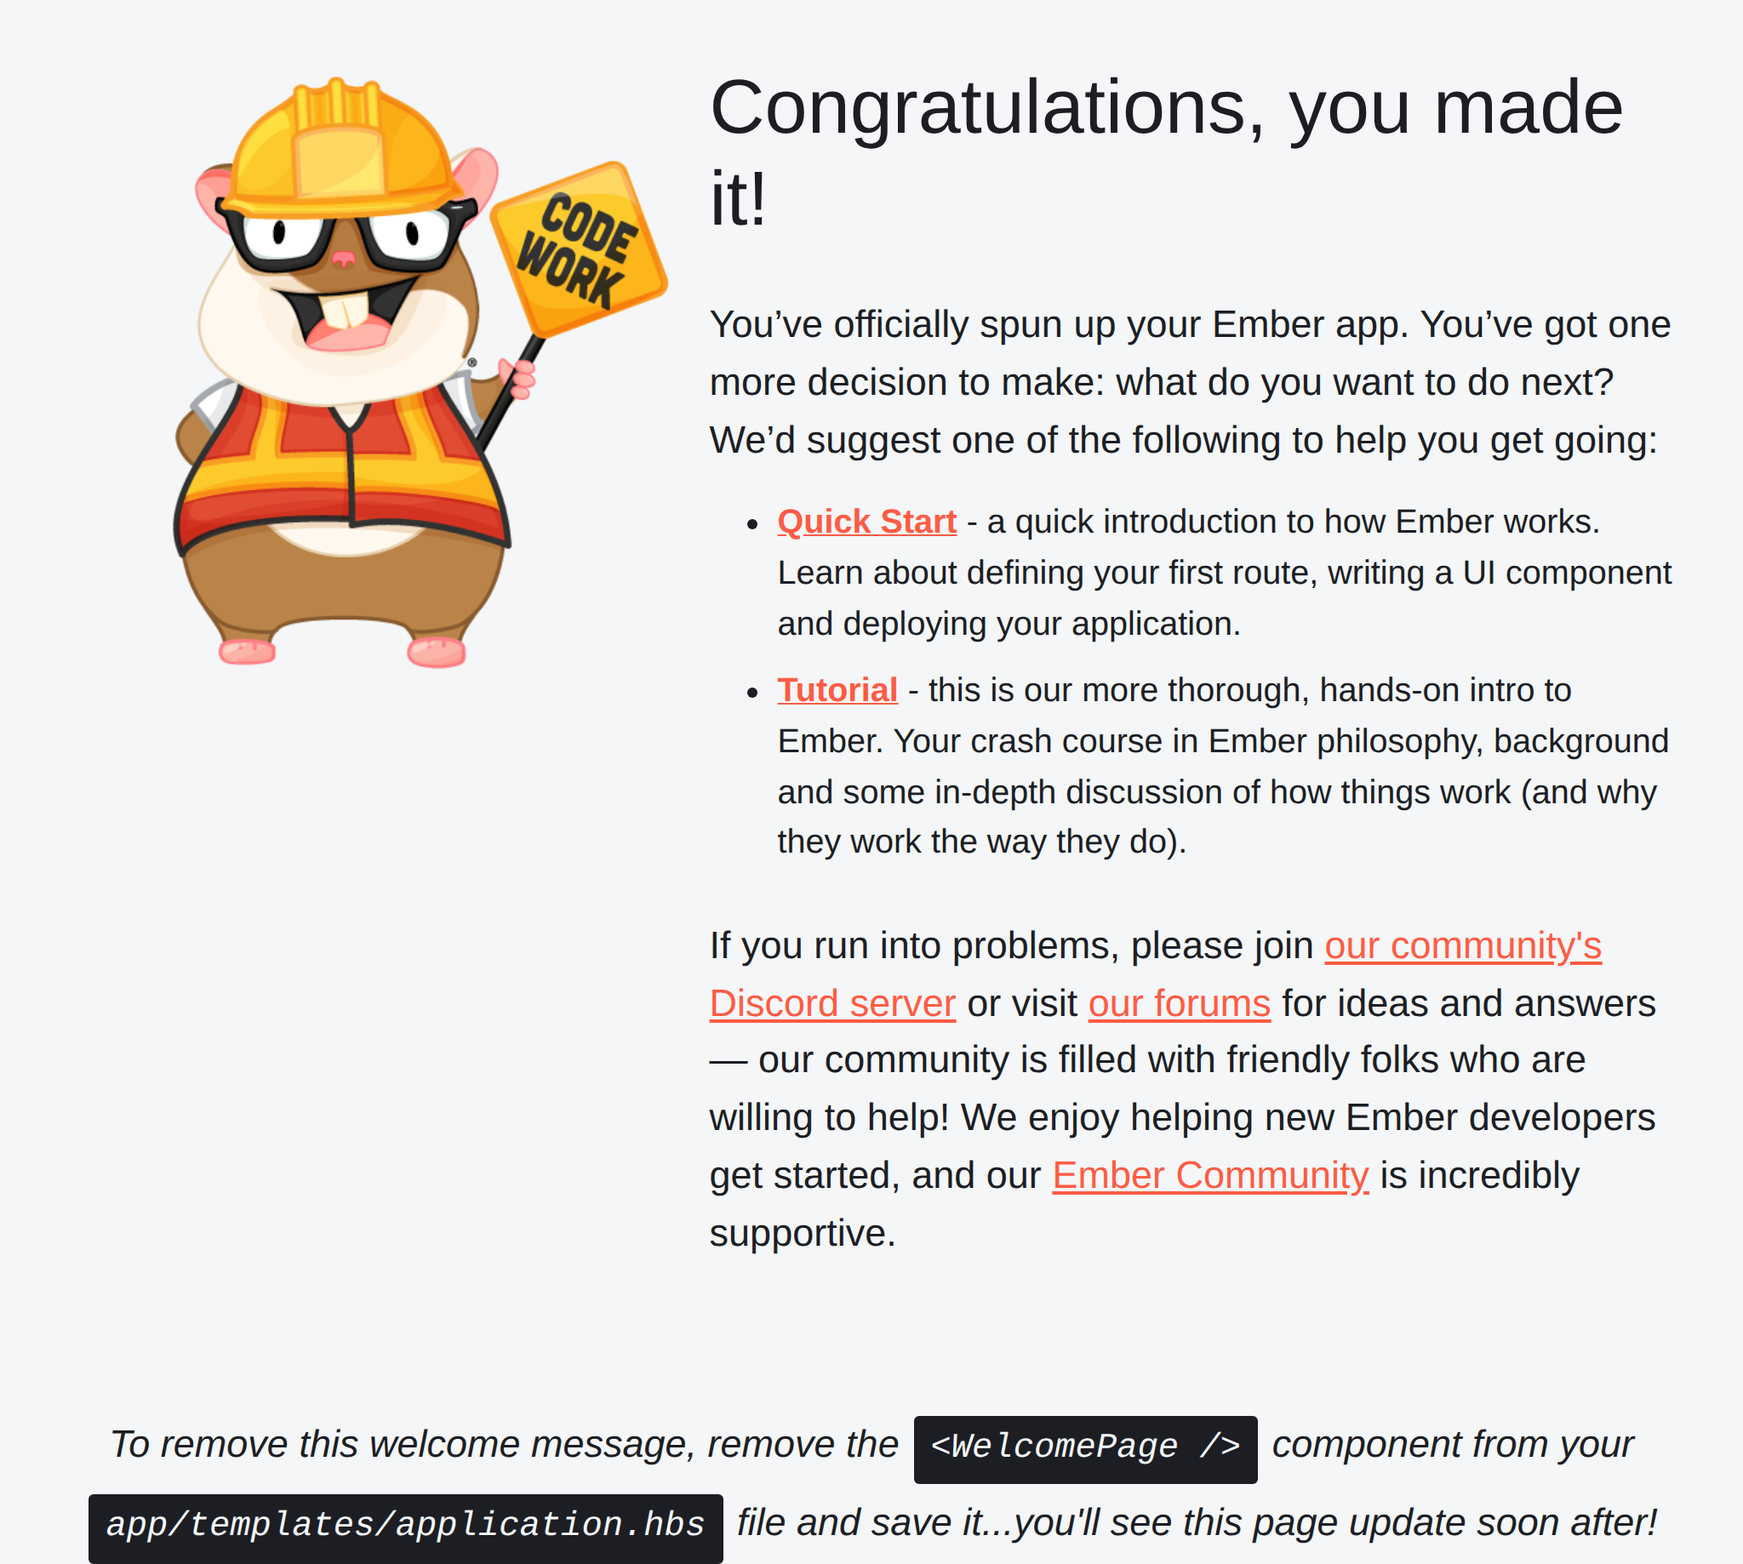
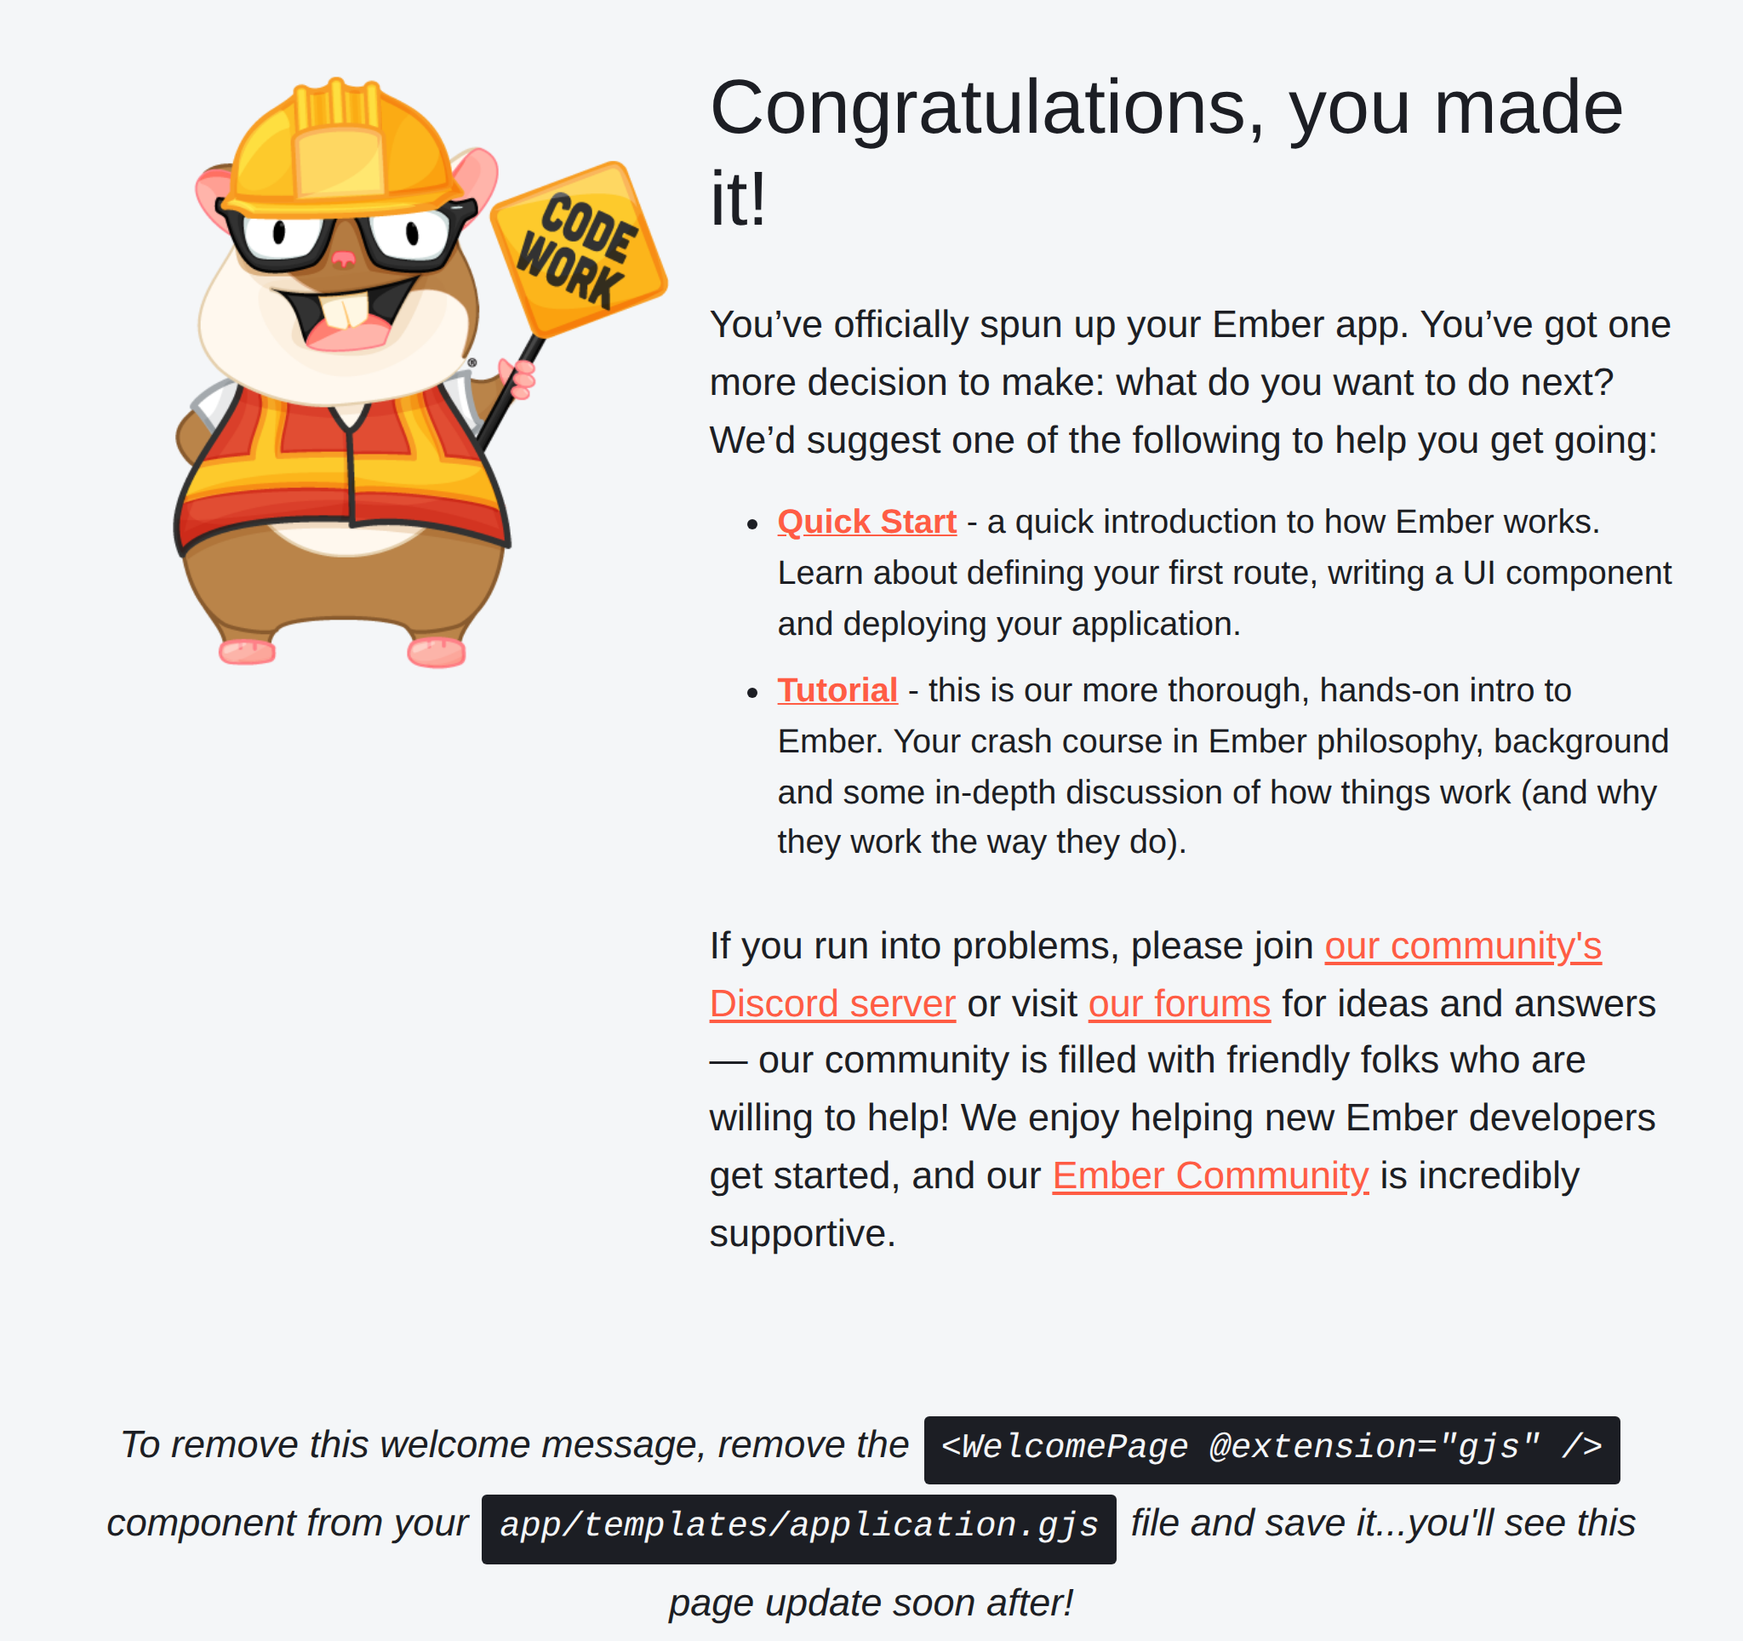
fix gjs extensions in welcome-page patch
---

Commit:  ember-learn/super-rentals-tutorial@36a12b732ee49e381ccfd6022cb507a460b0596b
Script:  https://github.com/ember-learn/super-rentals-tutorial/blob/36a12b732ee49e381ccfd6022cb507a460b0596b/.github/workflows/build.yml
Logs:    https://github.com/ember-learn/super-rentals-tutorial/commit/36a12b732ee49e381ccfd6022cb507a460b0596b/checks

diff --git a/guides/release/tutorial/part-2/ember-data.md b/guides/release/tutorial/part-2/ember-data.md
@@ -74,19 +74,19 @@ Chances are, as we keep working on this app, we will need to add more routes tha
 
 Fortunately, we're not going to do any of that. As it turns out, there's a much better solution here: we can use EmberData! As its name implies, [EmberData](../../../models/) is a library that helps manage data and _application state_ in Ember applications.
 
-There's a lot to learn about EmberData, but let's start by uncovering features that help with our immediate problem.
-
 <div class="cta">
   <div class="cta-note">
     <div class="cta-note-body">
       <div class="cta-note-heading">Zoey says...</div>
       <div class="cta-note-message">
-        <p>RequestManager is available starting with the EmberData 4.12 LTS release. EmberData works with multiple versions of Ember, please refer to the Compatibility section of the <a href="https://github.com/emberjs/data/blob/main/README.md#compatibility">EmberData README</a> while doing your application upgrade.</p>
+        <p>EmberData is in the process of being renamed to WarpDrive. It's not just changing its name though, WarpDrive is now able to be used in multiple different frameworks. You can read more about it in the <a href="https://warp-drive.io">WarpDrive Docs</a></p>
       </div>
     </div>
     <img src="/images/mascots/zoey.png" role="presentation" alt="">
   </div>
 </div>
+
+There's a lot to learn about EmberData, but let's start by uncovering features that help with our immediate problem.
 
 ## EmberData Models
 
@@ -95,7 +95,7 @@ EmberData is built around the idea of organizing your app's data into _[model ob
 Enough talking, why don't we give that a try!
 
 ```js { data-filename="app/models/rental.js" }
-import Model, { attr } from '@ember-data/model';
+import Model, { attr } from '@warp-drive/legacy/model';
 
 const COMMUNITY_CATEGORIES = ['Condo', 'Townhouse', 'Apartment'];
 
@@ -119,7 +119,7 @@ export default class RentalModel extends Model {
 }
 ```
 
-Here, we created a `RentalModel` class that extends EmberData's `Model` superclass. When fetching the listing data from the server, each individual rental property will be represented by an instance (also known as a _[record](../../../models/finding-records/)_) of our `RentalModel` class.
+Here, we created a `RentalModel` class that extends EmberData's `Model` superclass (which is imported from the `@warp-drive/legacy` package). When fetching the listing data from the server, each individual rental property will be represented by an instance (also known as a _[record](../../../models/finding-records/)_) of our `RentalModel` class.
 
 We used the `@attr` decorator to declare the attributes of a rental property. These attributes correspond directly to the `attributes` data we expect the server to provide in its responses:
 
@@ -226,10 +226,26 @@ module('Unit | Model | rental', function (hooks) {
 
 This model test is also known as a _[unit test](../../../testing/testing-models/)_. Unlike any of the other tests that we've written thus far, this test doesn't actually _render_ anything. It just instantiates the rental model object and tests the model object directly, manipulating its attributes and asserting their value.
 
-It is worth pointing out that EmberData provides a `store` _[service](../../../services/)_, also known as the EmberData store. In our test, we used the `this.owner.lookup('service:store')` API to get access to the EmberData store. The store provides a `createRecord` method to instantiate our model object for us. To make this `store` service available, we must add the following file:
+It is worth pointing out that EmberData provides a `store` _[service](../../../services/)_, also known as the EmberData store. In our test, we used the `this.owner.lookup('service:store')` API to get access to the EmberData store. The store provides a `createRecord` method to instantiate our model object for us. 
+
+This is the store that is generated for us as part of the default blueprint: 
 
 ```js { data-filename="app/services/store.js" }
-export { default } from 'ember-data/store';
+import { useLegacyStore } from '@warp-drive/legacy';
+import { JSONAPICache } from '@warp-drive/json-api';
+
+const Store = useLegacyStore({
+  linksMode: false,
+  cache: JSONAPICache,
+  handlers: [
+    // -- your handlers here
+  ],
+  schemas: [
+    // -- your schemas here
+  ],
+});
+
+export default Store;
 ```
 
 Running the tests in the browser confirms that everything is working as intended:
@@ -245,7 +261,7 @@ import Route from '@ember/routing/route';
 
 const COMMUNITY_CATEGORIES = ['Condo', 'Townhouse', 'Apartment'];
 import { service } from '@ember/service';
-import { query } from '@ember-data/json-api/request';
+import { query } from '@warp-drive/utilities/json-api';
 
 export default class IndexRoute extends Route {
   async model() {
@@ -277,7 +293,7 @@ import Route from '@ember/routing/route';
 
 const COMMUNITY_CATEGORIES = ['Condo', 'Townhouse', 'Apartment'];
 import { service } from '@ember/service';
-import { findRecord } from '@ember-data/json-api/request';
+import { findRecord } from '@warp-drive/utilities/json-api';
 
 export default class RentalRoute extends Route {
   async model(params) {
@@ -308,9 +324,9 @@ Wow... that removed a lot of code! This is all possible thanks to the power of c
 
 ## The EmberData Store
 
-As mentioned above, EmberData provides a `store` service, which we can inject into our route using the `@service store;` declaration, making the EmberData store available as `this.store`. It provides the `request` method for making fetch requests using `RequestManager`. As its name implies: the `RequestManager` is request centric. Instead of answering questions about specific records or types of records, we ask it about the status of a specific request. To initiate a request, we use the `request` method on the store, passing in a request object. The request object is created using builders from `@ember-data/json-api/request`. Specifically, the [`findRecord` builder](../../../models/finding-records/#toc_retrieving-a-single-record) takes a model type (`rental` in our case) and a model ID (for us, that would be `params.rental_id` from the URL) as arguments and builds fetch options for a single record. On the other hand, the [`query` builder](../../../models/finding-records/#toc_retrieving-multiple-records) takes the model type as an argument and builds fetch options to query for all records of that type.
+As mentioned above, EmberData provides a `store` service, which we can inject into our route using the `@service store;` declaration, making the EmberData store available as `this.store`. It provides the `request` method for making fetch requests using `RequestManager`. As its name implies: the `RequestManager` is request centric. Instead of answering questions about specific records or types of records, we ask it about the status of a specific request. To initiate a request, we use the `request` method on the store, passing in a request object. The request object is created using builders from `@warp-drive/utilities/json-api`. Specifically, the [`findRecord` builder](../../../models/finding-records/#toc_retrieving-a-single-record) takes a model type (`rental` in our case) and a model ID (for us, that would be `params.rental_id` from the URL) as arguments and builds fetch options for a single record. On the other hand, the [`query` builder](../../../models/finding-records/#toc_retrieving-multiple-records) takes the model type as an argument and builds fetch options to query for all records of that type.
 
-EmberData can do many things, and in default setup it provides caching. EmberData's store caches server responses, allowing instant access to previously fetched data. If the data is already cached, you don't need to wait for the server to respond again. If not, the store fetches it for you.
+EmberData can do many things, and in the default setup it provides caching. EmberData's store caches server responses, allowing instant access to previously fetched data. If the data is already cached, you don't need to wait for the server to respond again. If not, the store fetches it for you.
 
 That's a lot of theory, but is this going to work in our app? Let's run the tests and find out!
 
@@ -334,7 +350,8 @@ Let's start customizing the things that didn't work for us by default. Specifica
 
 The first thing we want to do is have our builder respect a configurable default host and/or namespace. Adding a namespace prefix happens to be pretty common across Ember apps, so EmberData provides a global config mechanism for host and namespace. Typically you will want to do this either in your store file or app file.
 
-```js { data-filename="app/app.js" data-diff="+21,+22,+23,+24,+25" }
+```js { data-filename="app/app.js" data-diff="+22,+23,+24,+25,+26" }
+import '@warp-drive/ember/install';
 import Application from '@ember/application';
 import compatModules from '@embroider/virtual/compat-modules';
 import Resolver from 'ember-resolver';
@@ -355,7 +372,7 @@ export default class App extends Application {
 }
 
 loadInitializers(App, config.modulePrefix, compatModules);
-import { setBuildURLConfig } from '@ember-data/request-utils';
+import { setBuildURLConfig } from '@warp-drive/utilities/json-api';
 
 setBuildURLConfig({
   namespace: 'api',
@@ -379,34 +396,26 @@ export const JsonSuffixHandler = {
 
 As you can see, the handler appends `.json` to the URL of each request. Pretty simple, right? Then it calls the `next` function with the modified copy of the request object (because it is immutable). This is how we can chain multiple handlers together to build up a request.
 
-The next step that we need to do, is to configure `RequestManager` to use this handler. Let's create the request-manager service.
+The next step that we need to do, is to configure our  `legacyStore` to use this handler. Let's update the store service to add this handler:
 
-```js { data-filename="app/services/request-manager.js" }
-import BaseRequestManager from '@ember-data/request';
-import Fetch from '@ember-data/request/fetch';
+```js { data-filename="app/services/store.js" data-diff="+3,+10" }
+import { useLegacyStore } from '@warp-drive/legacy';
+import { JSONAPICache } from '@warp-drive/json-api';
 import { JsonSuffixHandler } from 'super-rentals/utils/handlers';
 
-export default class RequestManager extends BaseRequestManager {
-  constructor(args) {
-    super(args);
+const Store = useLegacyStore({
+  linksMode: false,
+  cache: JSONAPICache,
+  handlers: [
+    // -- your handlers here
+    JsonSuffixHandler
+  ],
+  schemas: [
+    // -- your schemas here
+  ],
+});
 
-    this.use([JsonSuffixHandler, Fetch]);
-  }
-}
-```
-
-Notice that we are using the `JsonSuffixHandler` we created earlier. We also use the `Fetch` handler, which is a built-in handler that makes the actual fetch request. The `use` method is used to add handlers to the request manager. The order in which handlers are added is important, as they will be executed in the order they were added.
-
-Lastly, let's update our `store` service to use the new `RequestManager` we created.
-
-```js { data-filename="app/services/store.js" data-diff="-1,+2,+3,+4,+5,+6,+7" }
-export { default } from 'ember-data/store';
-import BaseStore from 'ember-data/store';
-import { service } from '@ember/service';
-
-export default class Store extends BaseStore {
-  @service requestManager;
-}
+export default Store;
 ```
 
 With our new EmberData configuration in place, all our tests should pass again.

diff --git a/guides/release/tutorial/part-1/orientation.md b/guides/release/tutorial/part-1/orientation.md
@@ -24,8 +24,8 @@ To verify that your installation was successful, run:
 
 ```shell
 $ ember --version
-ember-cli: 6.9.1
-node: 20.19.6
+ember-cli: 6.10.0
+node: 20.20.0
 os: linux x64
 ```
 
@@ -46,29 +46,28 @@ Creating a new Ember app in /home/runner/work/super-rentals-tutorial/super-renta
   create .prettierignore
   create .prettierrc.mjs
   create .stylelintignore
-  create .stylelintrc.cjs
+  create .stylelintrc.mjs
   create .template-lintrc.mjs
   create .watchmanconfig
   create README.md
-  create /home/runner/work/super-rentals-tutorial/super-rentals-tutorial/dist/code/super-rentals/babel.config.cjs
-  create /home/runner/work/super-rentals-tutorial/super-rentals-tutorial/dist/code/super-rentals/eslint.config.mjs
   create app/app.js
   create app/components/.gitkeep
   create app/config/environment.js
   create app/controllers/.gitkeep
   create app/deprecation-workflow.js
   create app/helpers/.gitkeep
-  create app/models/.gitkeep
   create app/router.js
   create app/routes/.gitkeep
-  create app/services/.gitkeep
+  create app/services/store.js
   create app/styles/app.css
-  create /home/runner/work/super-rentals-tutorial/super-rentals-tutorial/dist/code/super-rentals/app/templates/application.gjs
+  create app/templates/application.gjs
+  create babel.config.mjs
   create config/ember-cli-update.json
   create config/environment.js
   create config/optional-features.json
   create config/targets.js
   create ember-cli-build.js
+  create eslint.config.mjs
   create .gitignore
   create index.html
   create package.json
@@ -119,12 +118,10 @@ super-rentals
 │   │   └── .gitkeep
 │   ├── helpers
 │   │   └── .gitkeep
-│   ├── models
-│   │   └── .gitkeep
 │   ├── routes
 │   │   └── .gitkeep
 │   ├── services
-│   │   └── .gitkeep
+│   │   └── store.js
 │   ├── styles
 │   │   └── app.css
 │   ├── templates
@@ -137,6 +134,28 @@ super-rentals
 │   ├── environment.js
 │   ├── optional-features.json
 │   └── targets.js
+├── dist
+│   ├── @embroider
+│   │   └── virtual
+│   │       ├── app.css
+│   │       ├── test-support.css
+│   │       ├── test-support.js
+│   │       ├── vendor.css
+│   │       └── vendor.js
+│   ├── assets
+│   │   ├── app-BQizcYp5.js
+│   │   ├── app-BsLReVUA.css
+│   │   ├── main-BrJmI0E2.js
+│   │   ├── modules-4-12-1Tpr-lU6.js
+│   │   ├── tests-Bfhe-jay.js
+│   │   └── tests-CFFHI-JI.css
+│   ├── ember-welcome-page
+│   │   └── construction.png
+│   ├── tests
+│   │   └── index.html
+│   ├── index.html
+│   ├── robots.txt
+│   └── testem.js
 ├── public
 │   └── robots.txt
 ├── tests
@@ -148,6 +167,9 @@ super-rentals
 │   │   └── .gitkeep
 │   ├── index.html
 │   └── test-helper.js
+├── tmp
+│   └── compat-prebuild
+│       └── .stage2-output
 ├── .editorconfig
 ├── .ember-cli
 ├── .env.development
@@ -155,11 +177,11 @@ super-rentals
 ├── .prettierignore
 ├── .prettierrc.mjs
 ├── .stylelintignore
-├── .stylelintrc.cjs
+├── .stylelintrc.mjs
 ├── .template-lintrc.mjs
 ├── .watchmanconfig
 ├── README.md
-├── babel.config.cjs
+├── babel.config.mjs
 ├── ember-cli-build.js
 ├── eslint.config.mjs
 ├── index.html
@@ -168,7 +190,7 @@ super-rentals
 ├── testem.cjs
 └── vite.config.mjs
 
-28 directories, 58 files
+26 directories, 57 files
 ```
 
 We'll learn about the purposes of these files and folders as we go. For now, just know that we'll spend most of our time working within the `app` folder.
@@ -195,18 +217,18 @@ Build successful (9761ms)
 
 Slowest Nodes (totalTime >= 5%) | Total (avg)
 -+-
-Babel: @embroider/macros (1) | 389ms
+Babel: @embroider/macros (1) | 417ms
 
 
 
-  VITE v7.3.0  ready in 3754 ms
+  VITE v7.3.1  ready in 3542 ms
 
   ➜  Local:   http://localhost:4200/
 ```
 
 The development server is responsible for compiling our app and serving it to the browsers. It may take a while to boot up. Once it's up and running, open your favorite browser and head to <http://localhost:4200>. You should see the following welcome page:
 
-<img src="/images/tutorial/part-1/orientation/welcome@2x.png" alt="Welcome to Ember!" width="1024" height="919">
+<img src="/images/tutorial/part-1/orientation/welcome@2x.png" alt="Welcome to Ember!" width="1024" height="964">
 
 <div class="cta">
   <div class="cta-note">
@@ -238,7 +260,7 @@ import { WelcomePage } from 'ember-welcome-page';
   {{outlet}}
 
   {{! The following component displays Ember's default welcome message. }}
-  <WelcomePage />
+  <WelcomePage @extension="gjs" />
   {{! Feel free to remove this! }}
   Hello World!!!
 </template>

diff --git a/guides/release/tutorial/part-1/reusable-components.md b/guides/release/tutorial/part-1/reusable-components.md
@@ -102,11 +102,11 @@ Build successful (13286ms)
 
 Slowest Nodes (totalTime >= 5%) | Total (avg)
 -+-
-Babel: @embroider/macros (1) | 389ms
+Babel: @embroider/macros (1) | 432ms
 
 
 
-  VITE v7.3.0  ready in 3756 ms
+  VITE v7.3.1  ready in 3695 ms
 
   ➜  Local:   http://localhost:4200/
 ```
